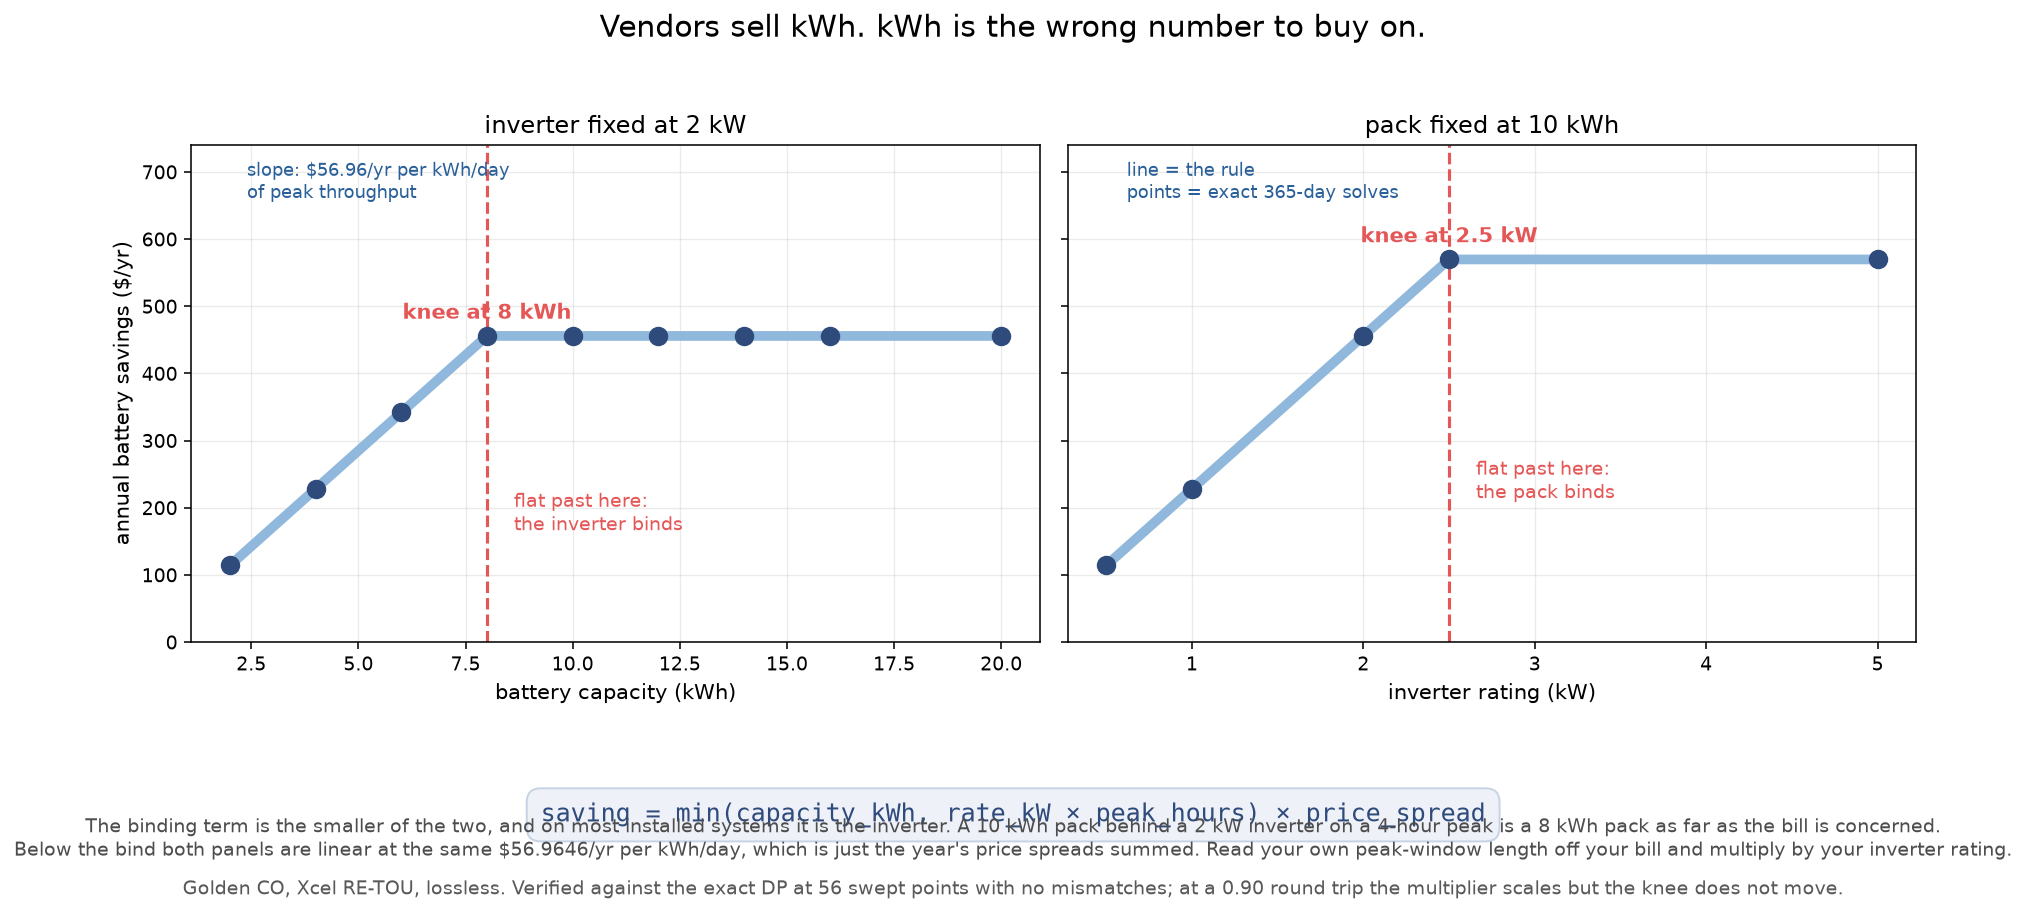
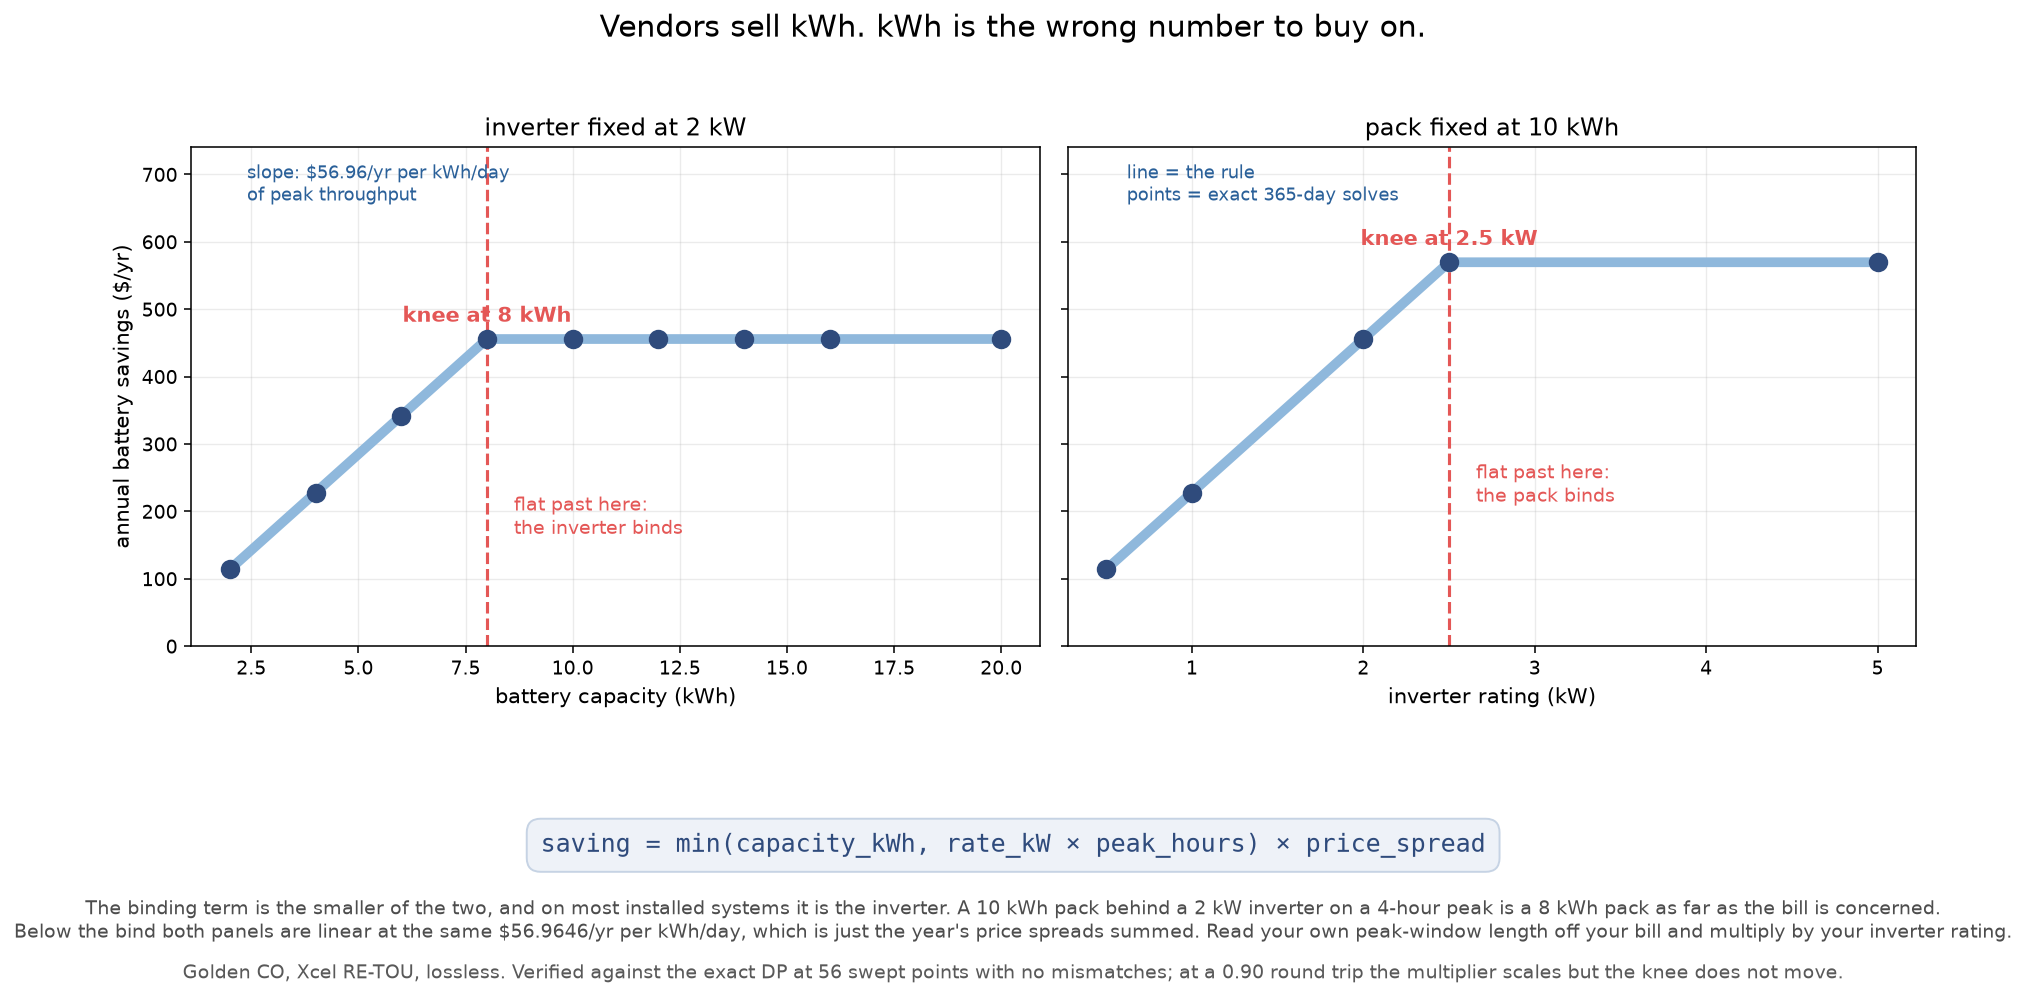
Separate the sizing figure's rule box from the caption beneath it
Enlarging the footers in the previous commit moved this figure's two-line caption
up into the boxed formula above it, so the two overlapped. The box now sits higher,
the caption and the provenance line each have clear space, and the panel is half an
inch taller so the plots are not squeezed to pay for it.

Checked the other two figures with the same box-above-caption arrangement,
gates_vs_qubits and process; both were already clear and are untouched.

diff --git a/scripts/make_sizing_figure.py b/scripts/make_sizing_figure.py
@@ -161,7 +161,7 @@ def main() -> None:
     by_capacity, by_rate, knee_capacity, knee_rate, constant = sweeps()
     ymax = max(by_capacity.max(), by_rate.max())
 
-    fig, (ax_c, ax_r) = plt.subplots(1, 2, figsize=(13.2, 6.6), sharey=True)
+    fig, (ax_c, ax_r) = plt.subplots(1, 2, figsize=(13.2, 7.2), sharey=True)
 
     for ax, xs, ys, knee, fixed_label, xlabel, binds in (
         (ax_c, CAPACITIES, by_capacity, knee_capacity,
@@ -202,17 +202,17 @@ def main() -> None:
 
     fig.suptitle("Vendors sell kWh. kWh is the wrong number to buy on.",
                  fontsize=15.5, y=0.975)
-    fig.tight_layout(rect=(0, 0.205, 1, 0.945))
+    fig.tight_layout(rect=(0, 0.265, 1, 0.945))
 
     fig.text(
-        0.5, 0.108,
+        0.5, 0.150,
         "saving = min(capacity_kWh, rate_kW × peak_hours) × price_spread",
         ha="center", va="center", fontsize=13, color=INK, family="monospace",
         bbox=dict(boxstyle="round,pad=0.55", facecolor="#EEF2F8",
                   edgecolor="#C6D3E4"),
     )
     fig.text(
-        0.5, 0.082,
+        0.5, 0.075,
         f"The binding term is the smaller of the two, and on most installed systems "
         f"it is the inverter. A {FIXED_CAPACITY:g} kWh pack behind a {FIXED_RATE:g} kW "
         f"inverter on a {PEAK_HOURS}-hour peak is a {knee_capacity:g} kWh pack as far "
@@ -222,7 +222,7 @@ def main() -> None:
         f"inverter rating.",
         ha="center", va="center", fontsize=10, color="0.3",
     )
-    fig.text(0.5, 0.022,
+    fig.text(0.5, 0.018,
              "Golden CO, Xcel RE-TOU, lossless. Verified against the exact DP at 56 "
              "swept points with no mismatches; at a 0.90 round trip the multiplier "
              "scales but the knee does not move.",
